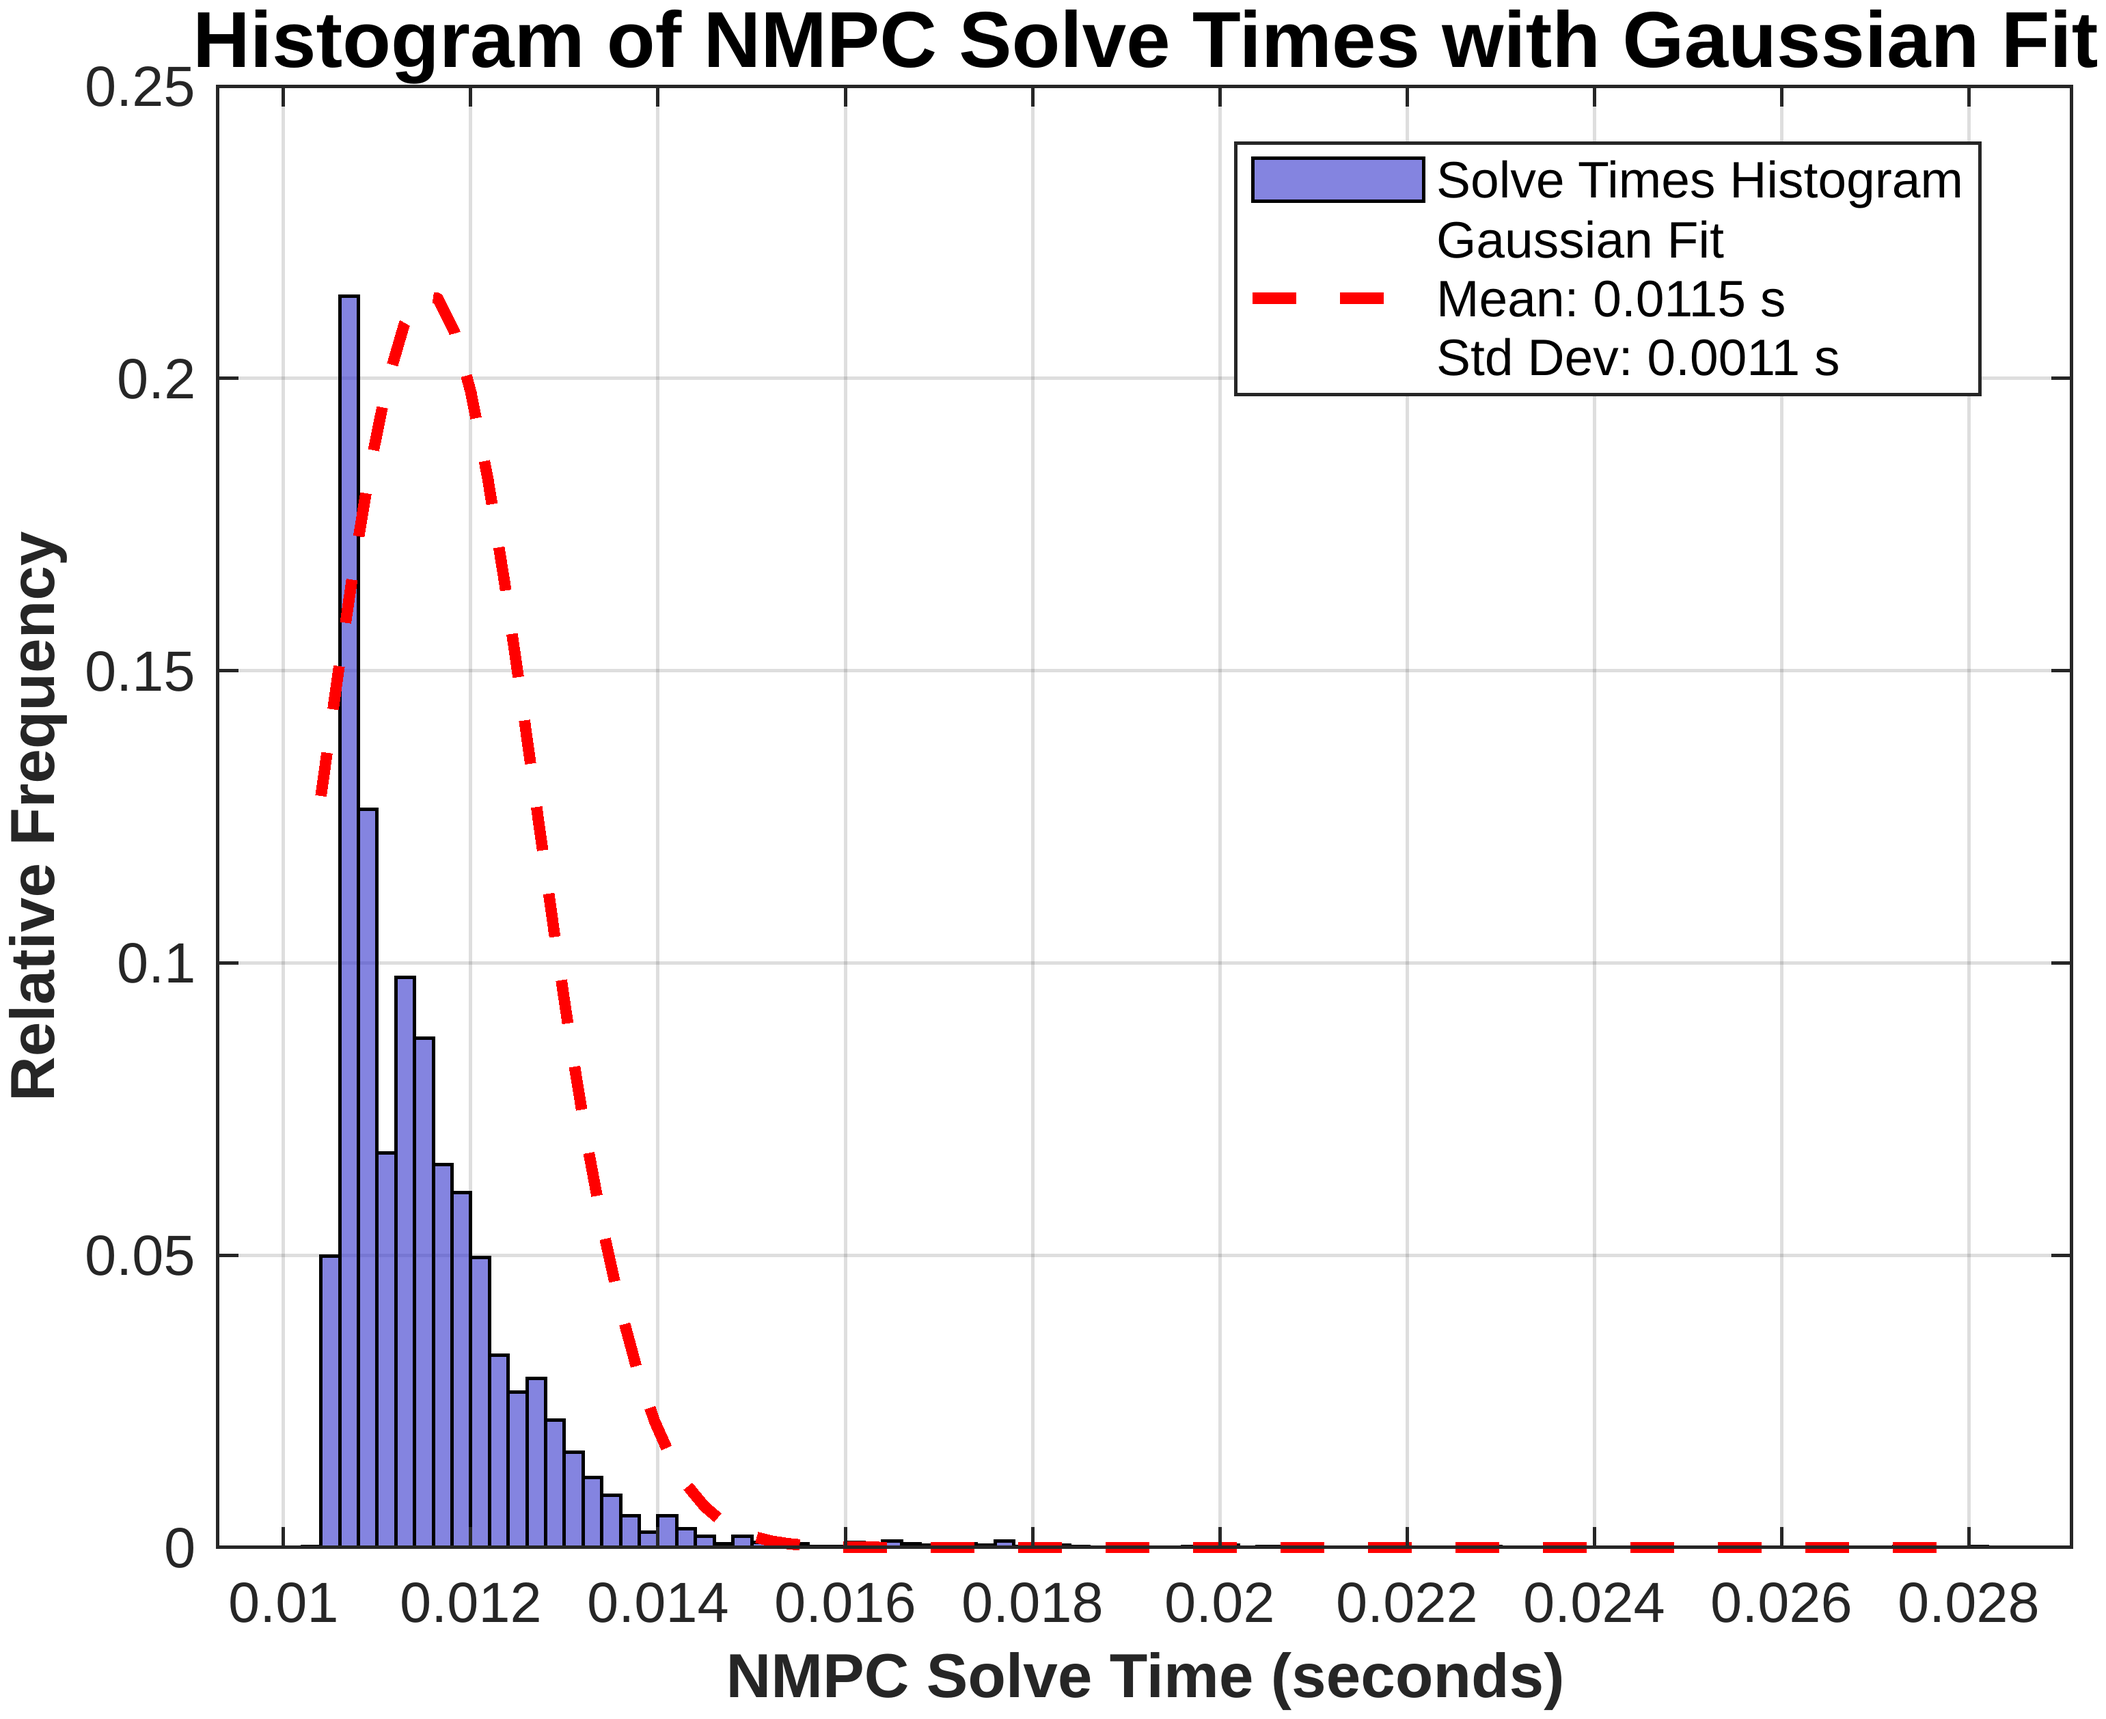
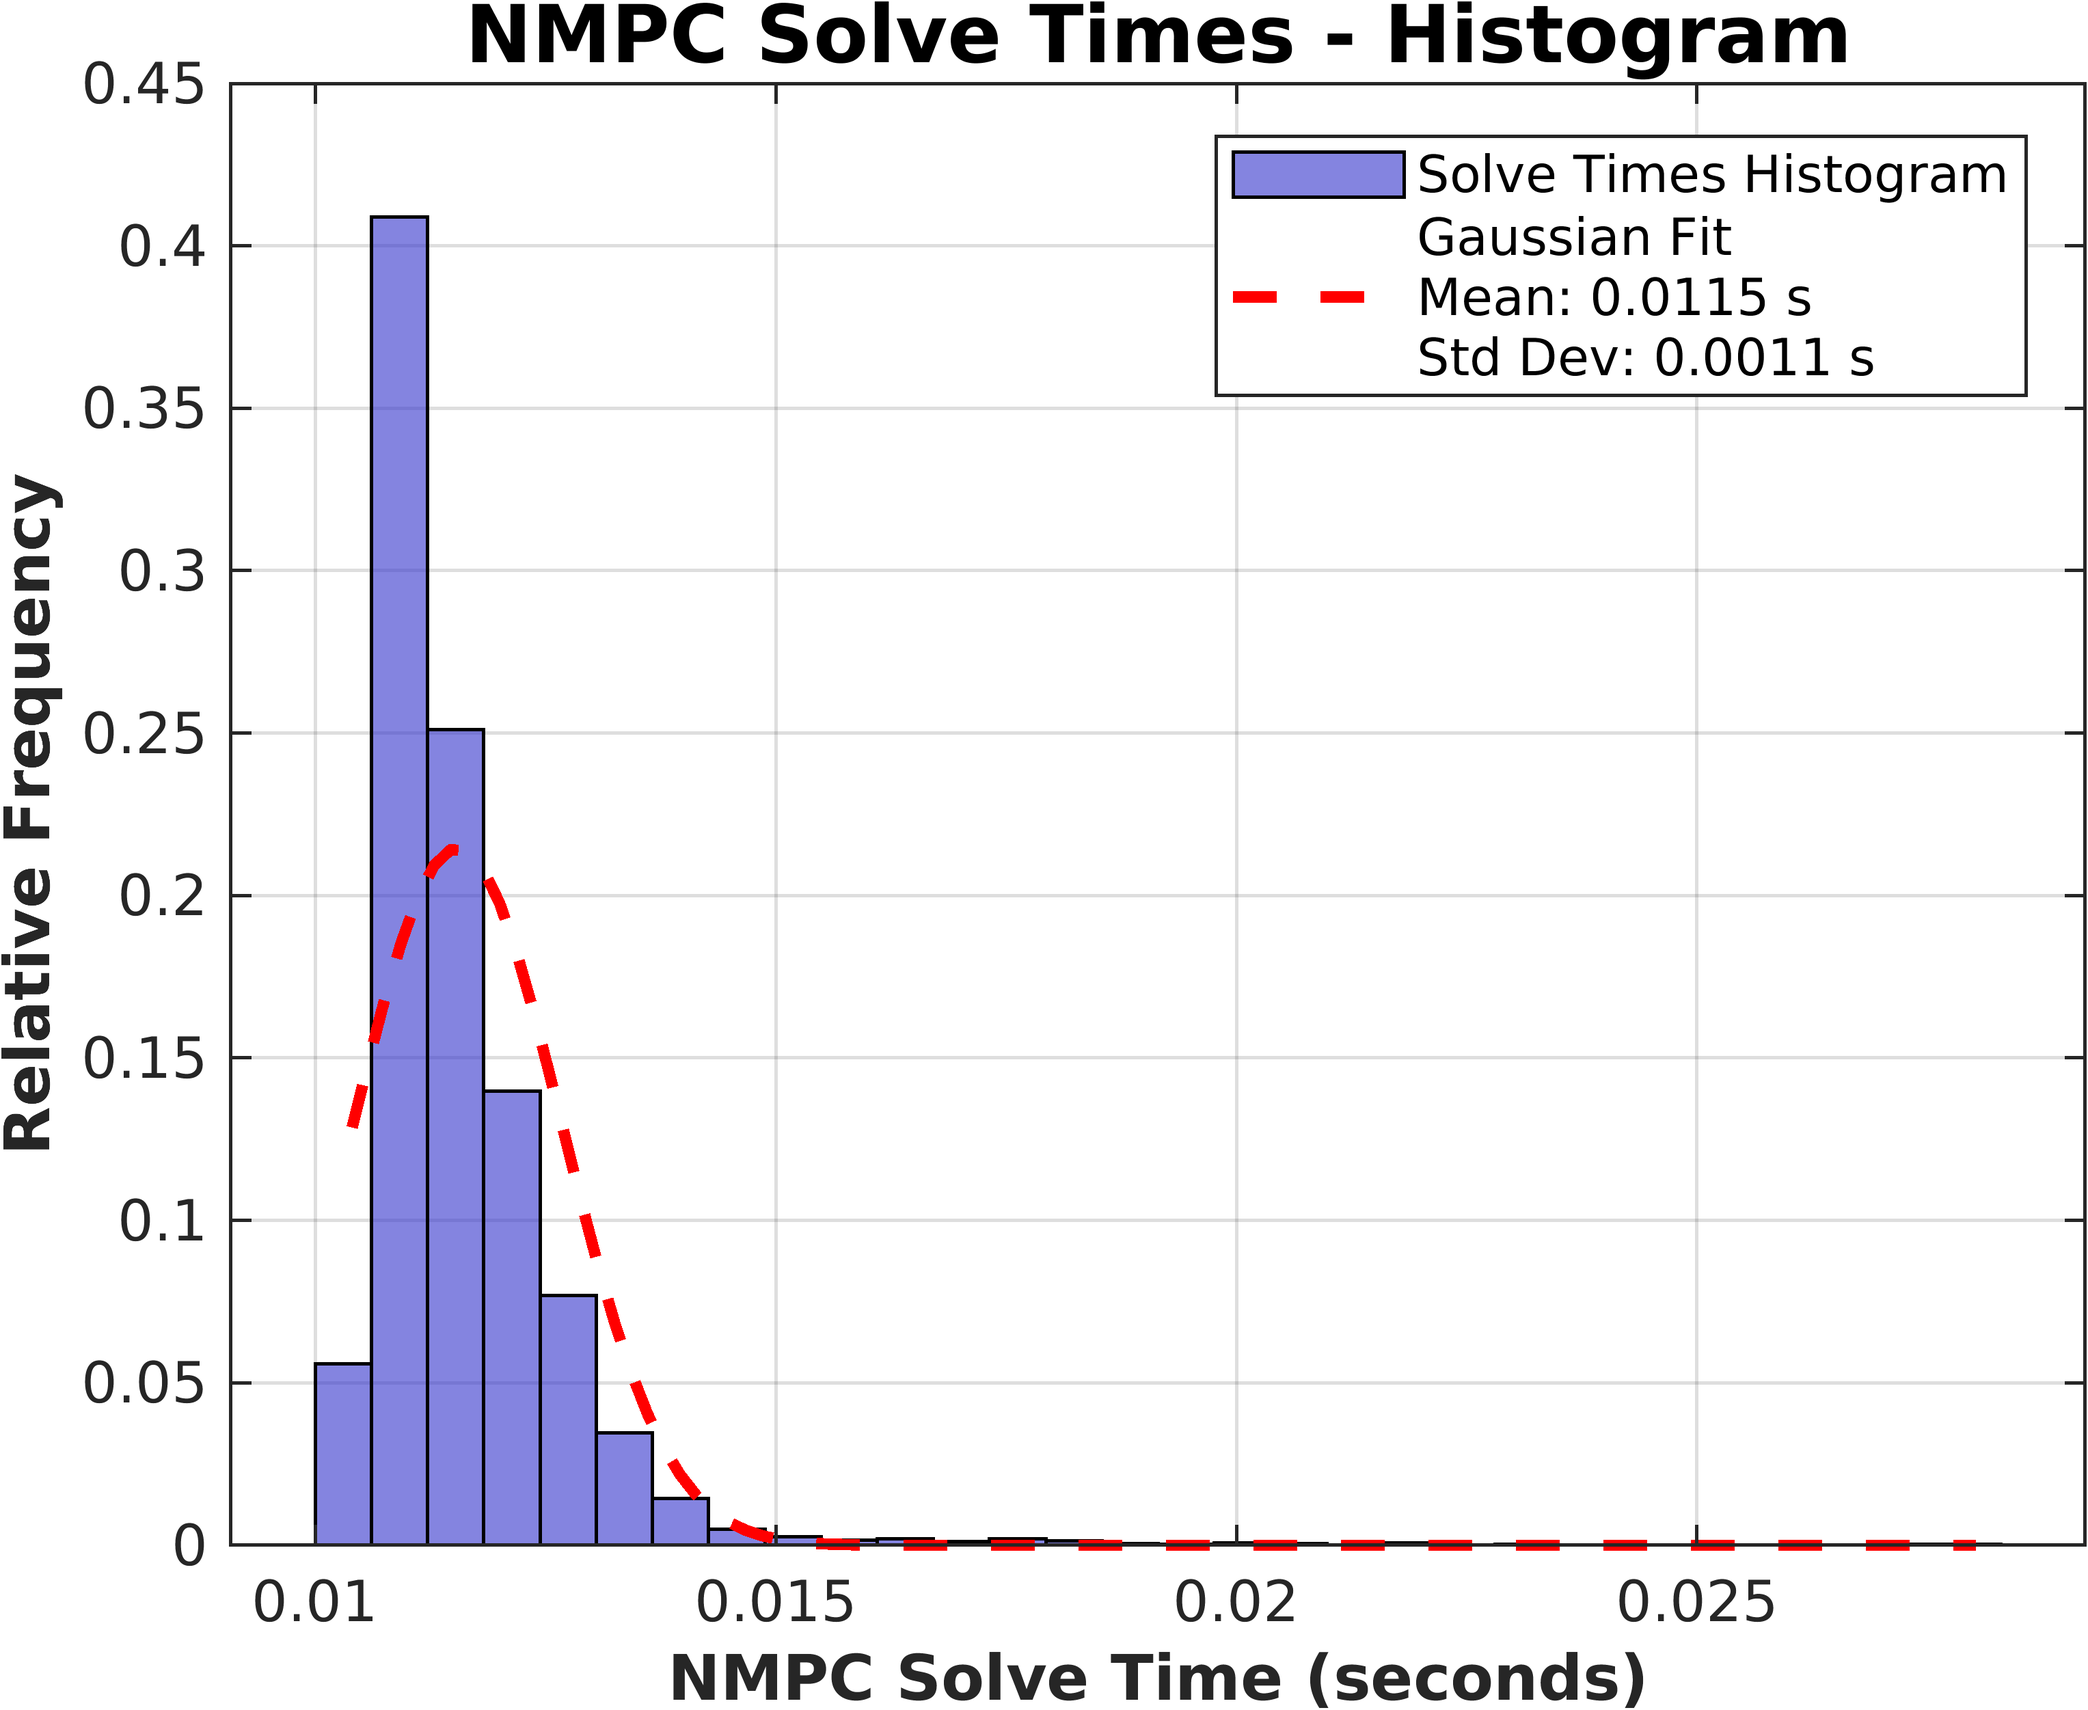
Refactor plot_nmpc_histogram function and add merged_files script

diff --git a/matlab/functions/plot_nmpc_histogram.m b/matlab/functions/plot_nmpc_histogram.m
@@ -11,7 +11,7 @@ function plot_nmpc_histogram(data)
 
         % Plot the histogram with relative frequency
         figure('Color', 'white'); % Set background to white
-        histogram(solve_times, 'Normalization', 'probability', ...
+        histogram(solve_times, 30, 'Normalization', 'probability', ...
                   'FaceColor', [0.2 0.2 0.8], 'EdgeColor', 'black');
         hold on;
 
@@ -25,7 +25,7 @@ function plot_nmpc_histogram(data)
         grid on;
         xlabel('NMPC Solve Time (seconds)', 'FontWeight', 'bold');
         ylabel('Relative Frequency', 'FontWeight', 'bold');
-        title('Histogram of NMPC Solve Times with Gaussian Fit', 'FontSize', 14, 'FontWeight', 'bold');
+        title('NMPC Solve Times - Histogram', 'FontSize', 14, 'FontWeight', 'bold');
 
         % Create legend text with mean and standard deviation
         legend_text = sprintf('Gaussian Fit\nMean: %.4f s\nStd Dev: %.4f s', mean_solve_time, std_solve_time);

diff --git a/matlab/merged_files.m b/matlab/merged_files.m
@@ -1,0 +1,23 @@
+clear;
+close all;
+clc;
+
+addpath("functions/")
+
+fullFileName = get_plotter_data("../data/csv_converted/sitl_1.csv");
+% Extract the name of the file without the path and extension
+[~, fileName, ~] = fileparts(fullFileName);
+
+% Create the folder path for the output (ensure the folder exists)
+outputFolder = 'images';
+if ~exist(outputFolder, 'dir')
+    mkdir(outputFolder); % Create the folder if it doesn't exist
+end
+
+% Create a PNG file name based on the extracted file name and save it in the images folder
+outputFileName = fullfile(outputFolder, strcat(fileName, '_nmpc_histogram.png'));
+
+data = readtable(fullFileName);
+
+plot_nmpc_histogram(data)
+exportgraphics(gcf, outputFileName, 'Resolution', 600);
